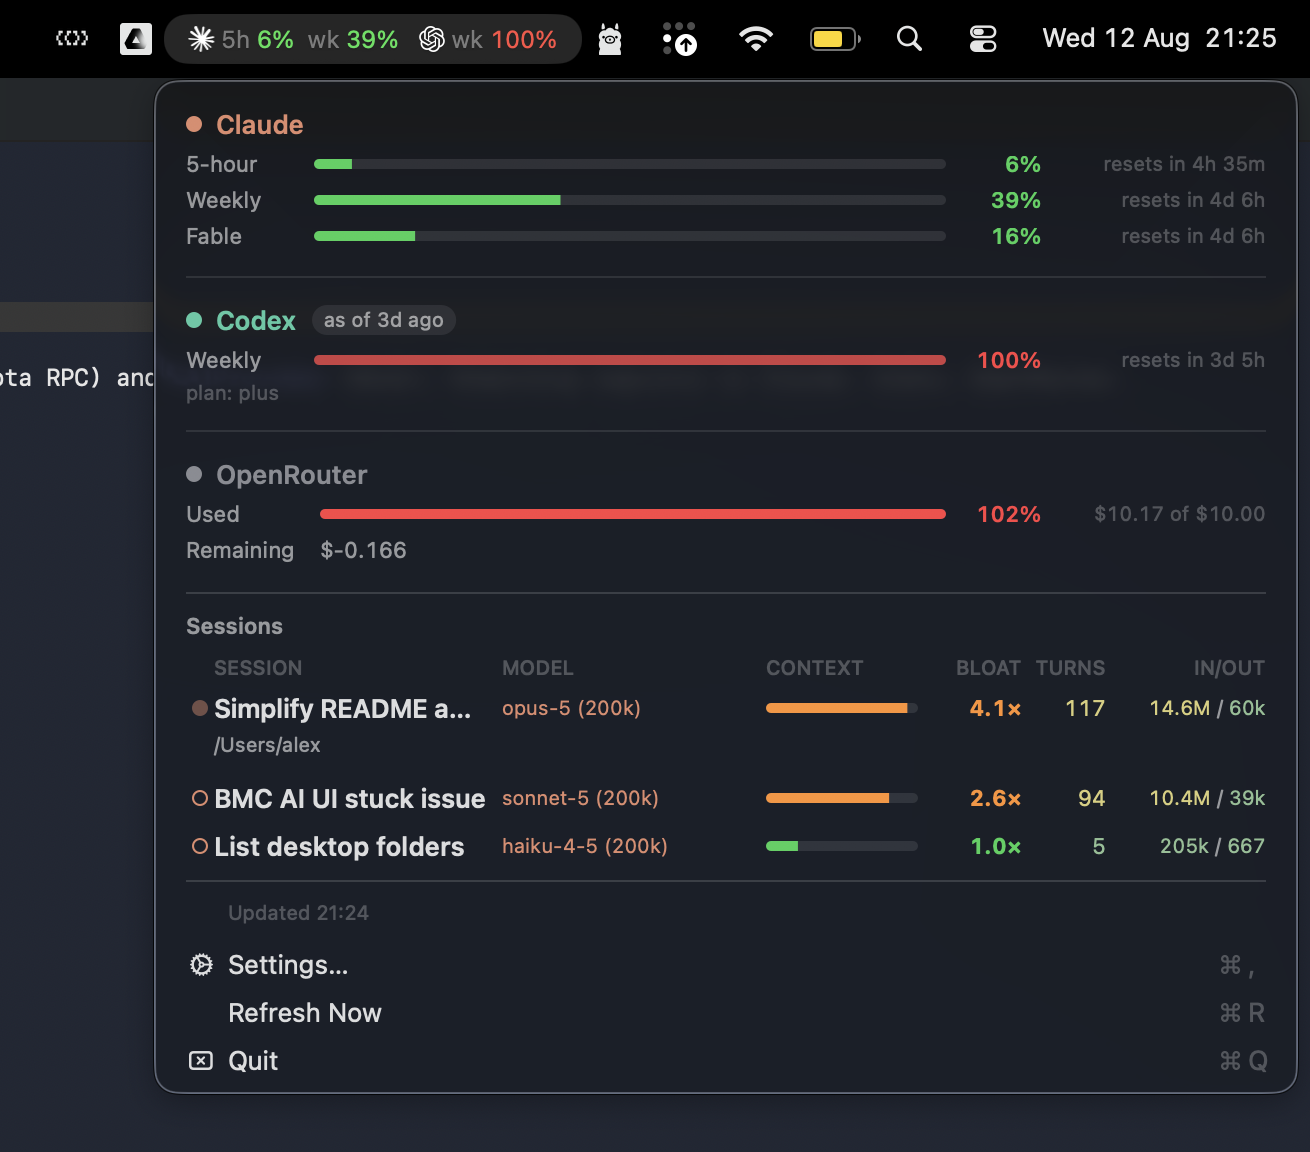
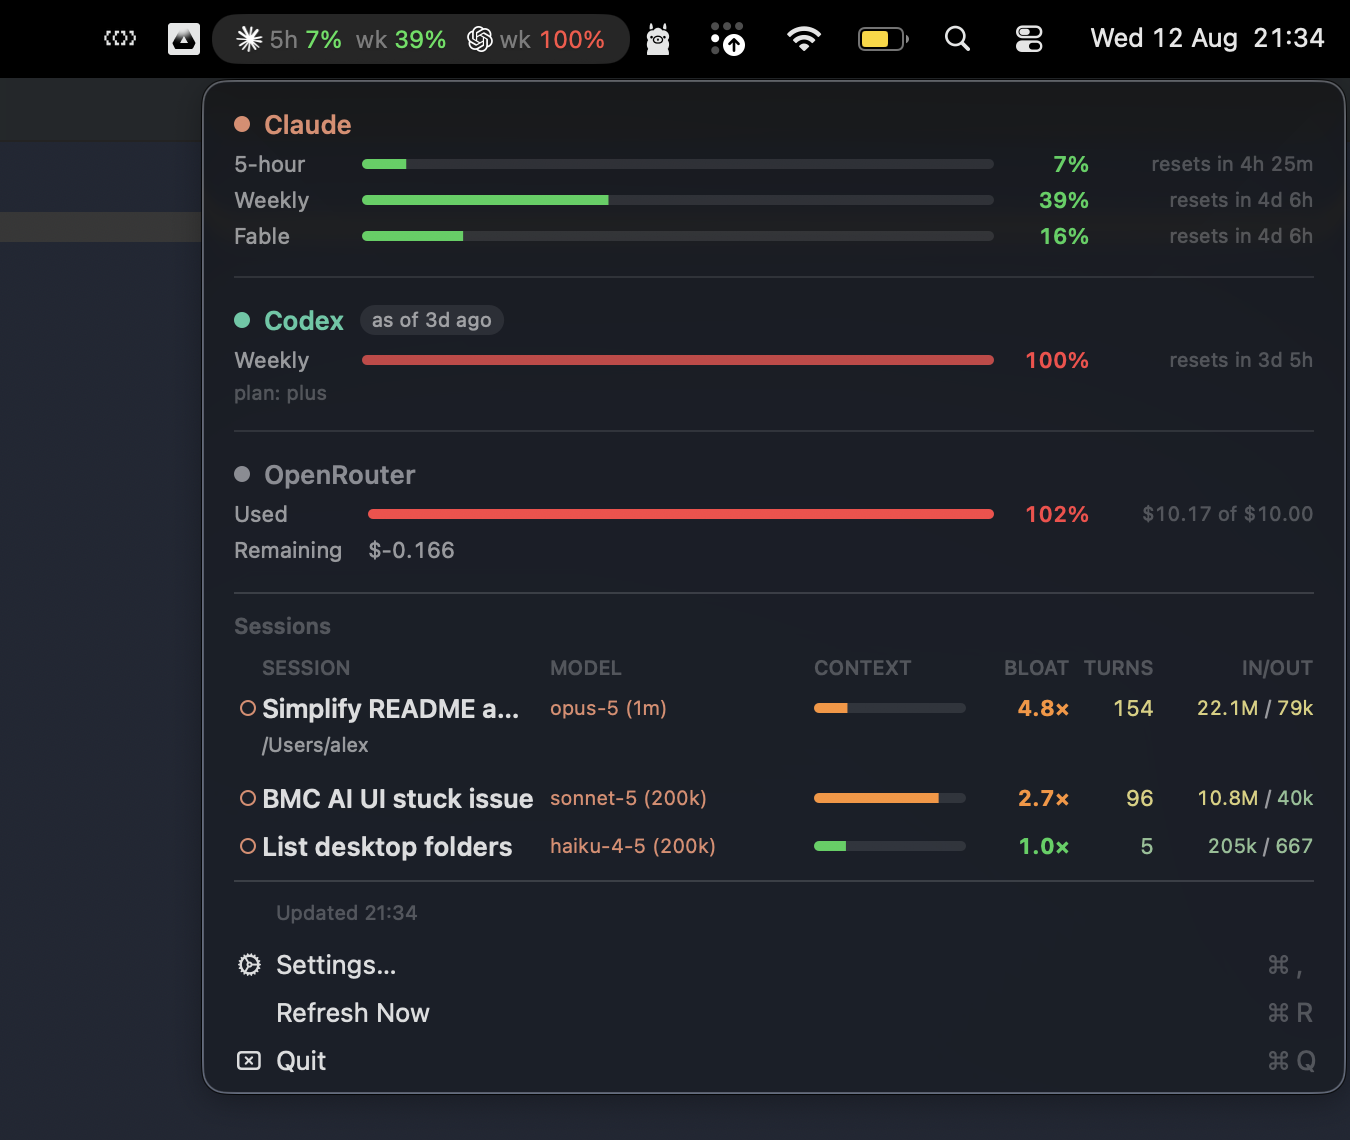
Use the newer capture as the one README screenshot
The 21:34 grab replaces the 21:25 one rather than sitting below it — they
are the same view nine minutes apart, so stacking both would show the
reader the same dropdown twice. The newer one is the better of the two: it
shows the (1m) context-window label on the model column.

Carried the same way as the first: committed to docs/menu-bar.png and
referenced relatively, because the github.com/user-attachments URL 404s to
an unauthenticated fetch and would render broken for anonymous readers of
a public README.

Claude-Session: https://claude.ai/code/session_019mMkB73cAqBAqrydtg4oAE

diff --git a/README.md b/README.md
@@ -11,9 +11,6 @@ interval and API keys.
 ![The menu bar title and its dropdown: Claude, Codex and OpenRouter quota
 bars above the live Sessions panel](docs/menu-bar.png)
 
-<img width="1350" height="1140" alt="image" src="https://github.com/user-attachments/assets/d452213d-8d44-4e95-8256-f7e0483f0446" />
-
-
 ## Providers
 
 | Provider | Source | Needs a key? |
